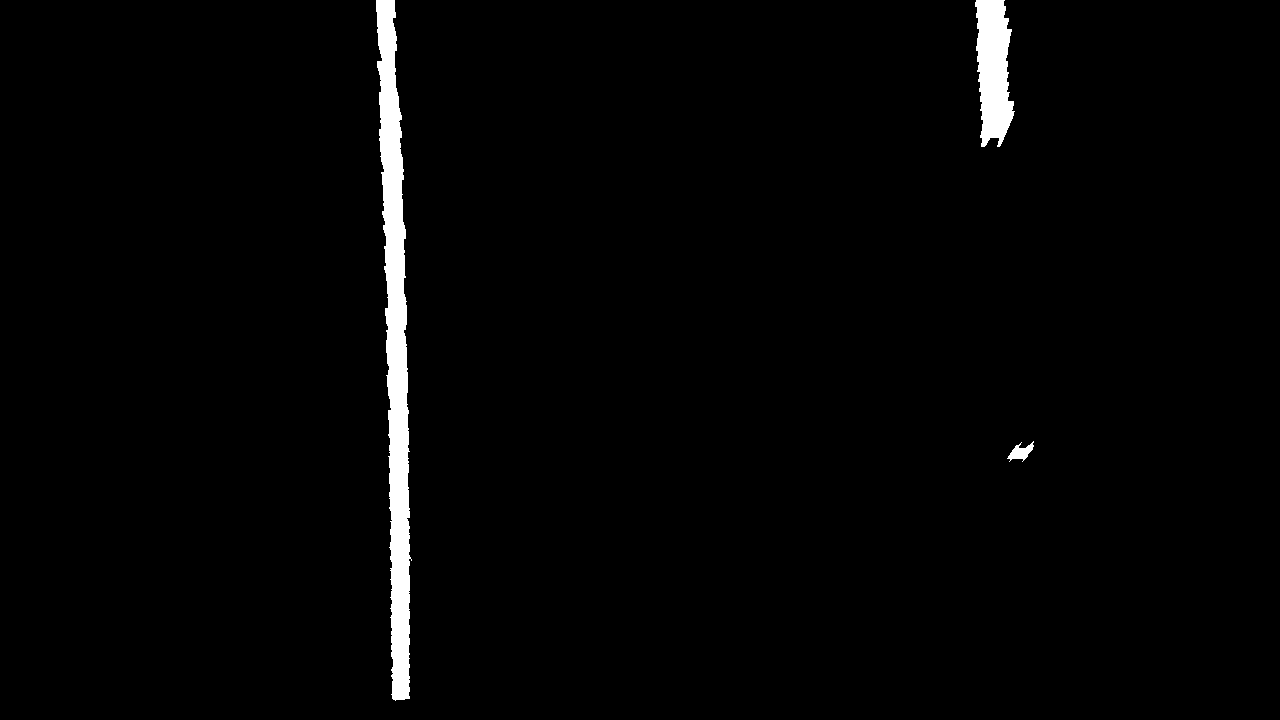
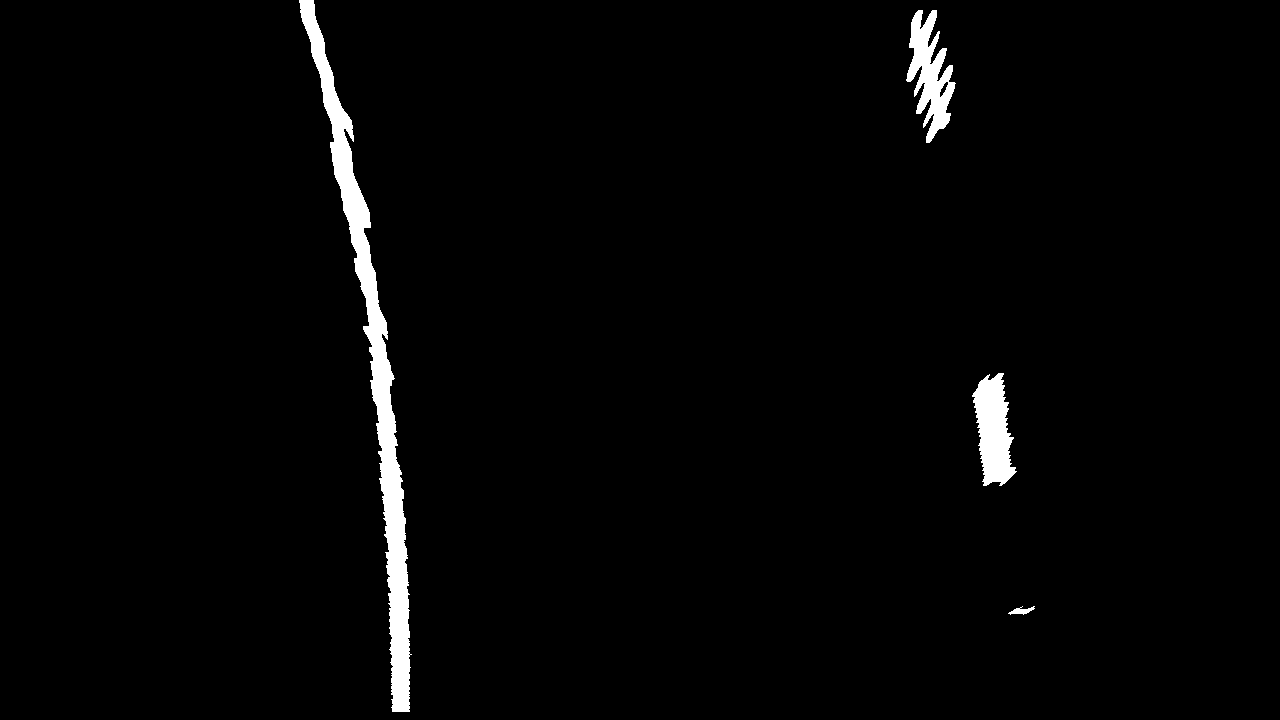
Working on a different perspective

diff --git a/find_lanes.py b/find_lanes.py
@@ -19,11 +19,12 @@ class Curvature(object):
 
 
 class Lane(object):
-    def __init__(self, base, fit_params, fitx, curvature: Curvature):
+    def __init__(self, base, fit_params, fitx, curvature: Curvature, lane_indices):
         self._base = base
         self._fit_params = fit_params
         self._fitx = fitx
         self._curvature = curvature
+        self._lane_indices = lane_indices
 
     @property
     def base(self):
@@ -41,6 +42,10 @@ class Lane(object):
     def curvature(self) -> Curvature:
         return self._curvature
 
+    @property
+    def lane_indices(self):
+        return self._lane_indices
+
 
 class LaneFitter(object):
     # Define conversions in x and y from pixels space to meters
@@ -48,8 +53,8 @@ class LaneFitter(object):
     xm_per_pix = 3.7 / 700  # meters per pixel in x dimension
 
     def __init__(self, p_matrix, verbose=False):
-        self._left = Lane(None, None, None, None)
-        self._right: Lane(None, None, None, None)
+        self._left = Lane(None, None, None, None, None)
+        self._right: Lane(None, None, None, None, None)
         self._vebose = verbose
         self._M, self._M_inv = p_matrix
         self._buffer = RingBuffer(5)
@@ -149,12 +154,12 @@ class LaneFitter(object):
         current_frame_left_base = np.argmax(hist[:midpoint])
         current_frame_right_base = np.argmax(hist[midpoint:]) + midpoint
 
+        nonzero = image.nonzero()
+        nonzero_y = nonzero[0]
+        nonzero_x = nonzero[1]
+
         if self._left.fit_params is None or self._right.fit_params is None:
             left_base, right_base = current_frame_left_base, current_frame_right_base
-
-            nonzero = image.nonzero()
-            nonzero_y = np.array(nonzero[0])
-            nonzero_x = np.array(nonzero[1])
 
             left_lane_indices, right_lane_indices = [], []
             leftx_current = left_base
@@ -190,10 +195,6 @@ class LaneFitter(object):
             righty = nonzero_y[right_lane_indices]
         else:
             left_base, right_base = self._compute_average_base(None)
-
-            nonzero = image.nonzero()
-            nonzero_y = nonzero[0]
-            nonzero_x = nonzero[1]
 
             left_fit = self._left.fit_params
             right_fit = self._right.fit_params
@@ -233,7 +234,8 @@ class LaneFitter(object):
         # do sanity checking, are two lines relatively parallel?
         if left_fit is not None and right_fit is not None:
             slope_diff = self._compute_slope_mse(ploty, (left_fit, right_fit))
-            if slope_diff > 0.1:
+            print('slope: {}'.format(slope_diff))
+            if slope_diff > 0.15:
                 print('ignoring fit')
                 # ignore this fit
                 left_fit, right_fit = None, None
@@ -255,8 +257,8 @@ class LaneFitter(object):
 
         offset = LaneFitter.xm_per_pix * ((current_frame_left_base + (current_frame_right_base - current_frame_left_base) / 2) - imshape[1]//2)
 
-        self._left = Lane(left_base, left_fit, left_fitx, left_curvature)
-        self._right = Lane(right_base, right_fit, right_fitx, right_curvature)
+        self._left = Lane(left_base, left_fit, left_fitx, left_curvature, left_lane_indices)
+        self._right = Lane(right_base, right_fit, right_fitx, right_curvature, right_lane_indices)
 
         self._buffer.append((self._left, self._right))
 
@@ -266,20 +268,25 @@ class LaneFitter(object):
 
         return out_img, offset
 
-    def transform(self, image):
+    def transform(self, color_image, binary_image):
         """
         This method transforms the identified lanes back to the original image and draws the lanes on the road
         :param image:
         :return:
         """
         # Create an image to draw the lines on
-        imshape = image.shape
+        imshape = color_image.shape
         color_warp = np.zeros(imshape, dtype=np.uint8)
+        lanes_warp = np.zeros(imshape, dtype=np.uint8)
+
+        nonzero = binary_image.nonzero()
+        nonzero_y = nonzero[0]
+        nonzero_x = nonzero[1]
 
         left: Lane = self._left
         right: Lane = self._right
 
-        ploty = np.linspace(0, image.shape[0] - 1, image.shape[0])
+        ploty = np.linspace(0, imshape[0] - 1, imshape[0])
         # Recast the x and y points into usable format for cv2.fillPoly()
         pts_left = np.array([np.transpose(np.vstack([left.fit_x, ploty]))])
         pts_right = np.array([np.flipud(np.transpose(np.vstack([right.fit_x, ploty])))])
@@ -288,14 +295,22 @@ class LaneFitter(object):
         # Draw the lane onto the warped blank image
         cv2.fillPoly(color_warp, np.int_([pts]), (0, 255, 0))
 
-        # Warp the blank back to original image space using inverse perspective matrix (Minv)
+        lanes_warp[nonzero_y[left.lane_indices], nonzero_x[left.lane_indices]] = [255, 0, 0]
+        lanes_warp[nonzero_y[right.lane_indices], nonzero_x[right.lane_indices]] = [0, 0, 255]
+
+        # Warp the image back to original image space using inverse perspective matrix (Minv)
         new_warp = cv2.warpPerspective(color_warp, self._M_inv, (imshape[1], imshape[0]))
+
         # Combine the result with the original image
-        result = cv2.addWeighted(image, 1, new_warp, 0.3, 0)
+        result = cv2.addWeighted(color_image, 0.9, new_warp, 0.3, 0)
+
+        # warp the lanes to the original image
+        lanes_unwarp = cv2.warpPerspective(lanes_warp, self._M_inv, (imshape[1], imshape[0]))
+        result = cv2.addWeighted(result, 1, lanes_unwarp, 1, 0)
 
         return result, (left.curvature, right.curvature)
 
     def fit_transform(self, binary_image, color_image):
         fit_image, offset = self.fit(binary_image)
-        final_image, curvatures = self.transform(color_image)
+        final_image, curvatures = self.transform(color_image, binary_image)
         return final_image, fit_image, curvatures, offset

diff --git a/pipeline.py b/pipeline.py
@@ -103,7 +103,7 @@ class Pipeline(object):
 
         imshape = image.shape
 
-        src_points = [(520, 504), (769, 504), (1100, imshape[0]), (217, imshape[0])]
+        src_points = [(580, 461), (702, 461), (1100, imshape[0]), (217, imshape[0])]
         src = np.array([src_points], dtype=np.float32)
         dst = np.array([(350, 0), (950, 0), (950, imshape[0]), (350, imshape[0])], dtype=np.float32)
 

diff --git a/README.md b/README.md
@@ -89,7 +89,7 @@ The code for my perspective transform includes a function called `find_perspecti
 99 through 129 in the file `pipeline.py`:
 
 ```python
-src_points = [(520, 504), (769, 504), (1100, imshape[0]), (217, imshape[0])]
+src_points = [(580, 461), (702, 461), (1100, imshape[0]), (217, imshape[0])]
 src = np.array([src_points], dtype=np.float32)
 dst = np.array([(350, 0), (950, 0), (950, imshape[0]), (350, imshape[0])], dtype=np.float32)
 
@@ -101,8 +101,8 @@ This resulted in the following source and destination points:
 
 | Source        | Destination   | 
 |:-------------:|:-------------:| 
-| 520, 504      | 350, 0        | 
-| 769, 504      | 950, 0        |
+| 580, 461      | 350, 0        | 
+| 702, 461      | 950, 0        |
 | 1100, 720     | 950, 720      |
 | 217, 720      | 350, 720      |
 
